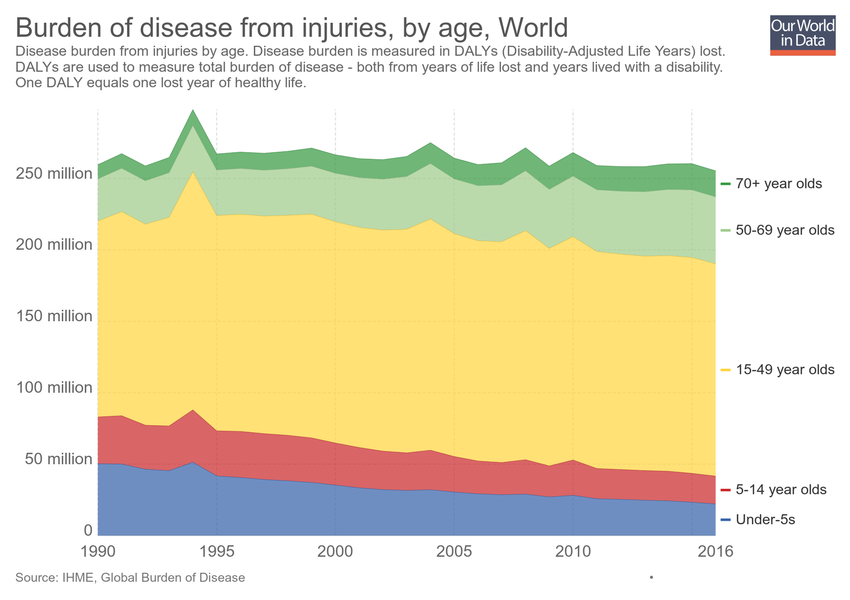
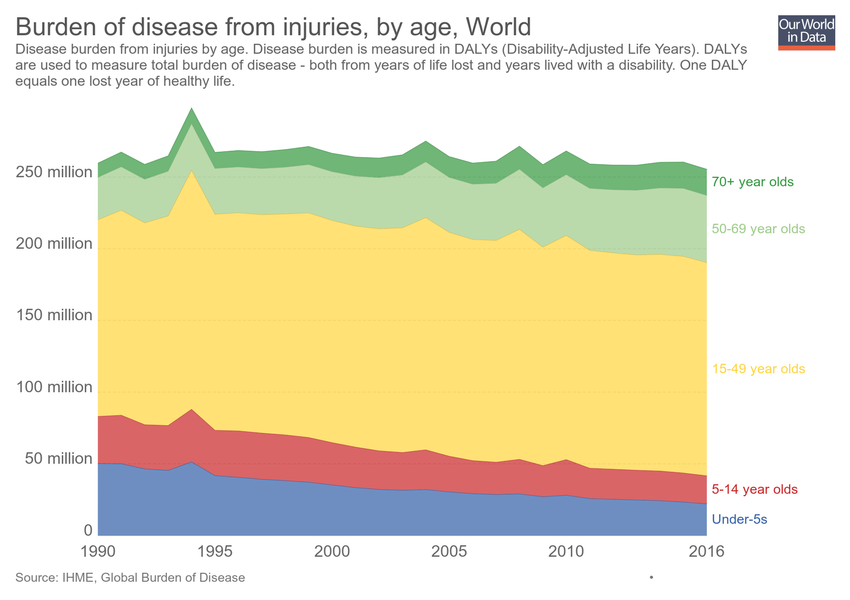
Updating chart burden-of-disease-from-injuries-by-age

diff --git a/grapher/hiv-expenditure.html b/grapher/hiv-expenditure.html
@@ -1,4 +1,4 @@
-<!doctype html><html><head><meta name="viewport" content="width=device-width, initial-scale=1" /><title>HIV expenditure on prevention and treatment - Our World in Data</title><meta name="description" content="Total expenditure on HIV/AIDS prevention and treatment, measured in US$." /><link rel="canonical" href="https://ourworldindata.org/grapher/hiv-expenditure" /><meta property="fb:app_id" content="1149943818390250" /><meta property="og:url" content="https://ourworldindata.org/grapher/hiv-expenditure" /><meta property="og:title" content="HIV expenditure on prevention and treatment" /><meta property="og:description" content="Total expenditure on HIV/AIDS prevention and treatment, measured in US$." /><meta property="og:image" content="https://ourworldindata.org/grapher/exports/hiv-expenditure.png?v=1" /><meta property="og:image:width" content="850" /><meta property="og:image:height" content="600" /><meta property="og:site_name" content="Our World in Data" /><meta name="twitter:card" content="summary_large_image" /><meta name="twitter:site" content="@OurWorldInData" /><meta name="twitter:creator" content="@OurWorldInData" /><meta name="twitter:title" content="HIV expenditure on prevention and treatment" /><meta name="twitter:description" content="Total expenditure on HIV/AIDS prevention and treatment, measured in US$." /><meta name="twitter:image" content="https://ourworldindata.org/grapher/exports/hiv-expenditure.png?v=1" /><style>
+<!doctype html><html><head><meta name="viewport" content="width=device-width, initial-scale=1" /><title>HIV expenditure - Our World in Data</title><meta name="description" content="Country-reported HIV expenditure, measured in current US$ per year. The year of reported expenditure varies by country; this information can be found by hovering over a given country." /><link rel="canonical" href="https://ourworldindata.org/grapher/hiv-expenditure" /><meta property="fb:app_id" content="1149943818390250" /><meta property="og:url" content="https://ourworldindata.org/grapher/hiv-expenditure" /><meta property="og:title" content="HIV expenditure" /><meta property="og:description" content="Country-reported HIV expenditure, measured in current US$ per year. The year of reported expenditure varies by country; this information can be found by hovering over a given country." /><meta property="og:image" content="https://ourworldindata.org/grapher/exports/hiv-expenditure.png?v=1" /><meta property="og:image:width" content="850" /><meta property="og:image:height" content="600" /><meta property="og:site_name" content="Our World in Data" /><meta name="twitter:card" content="summary_large_image" /><meta name="twitter:site" content="@OurWorldInData" /><meta name="twitter:creator" content="@OurWorldInData" /><meta name="twitter:title" content="HIV expenditure" /><meta name="twitter:description" content="Country-reported HIV expenditure, measured in current US$ per year. The year of reported expenditure varies by country; this information can be found by hovering over a given country." /><meta name="twitter:image" content="https://ourworldindata.org/grapher/exports/hiv-expenditure.png?v=1" /><style>
         html, body {
             height: 100%;
             margin: 0;
@@ -20,19 +20,8 @@
         }
     </style><noscript><style>
                     figure { display: none !important; }
-                </style></noscript><link rel="stylesheet" href="https://ourworldindata.org/grapher/assets/commons.bundle.a7ce280024c736539280.css" /><link rel="preload" href="/grapher/data/variables/96328.json?v=1" as="fetch" crossorigin /></head><body class="singleChart"><figure data-grapher-src="/grapher/hiv-expenditure"></figure><noscript id="fallback"><img src="/grapher/exports/hiv-expenditure.svg" /><p>Interactive visualization requires JavaScript</p></noscript><script src="https://cdn.polyfill.io/v2/polyfill.min.js?features=es6,fetch"></script><script src="https://ourworldindata.org/grapher/assets/commons.bundle.a7ce280024c736539280.js"></script><script src="https://ourworldindata.org/grapher/assets/charts.bundle.dcf65b68eddaba4c6a58.js"></script><script>
-        var jsonConfig = {"map":{"projection":"World","targetYear":2015,"variableId":96328,"timeTolerance":3,"baseColorScheme":"YlGnBu","isManualBuckets":true,"colorSchemeLabels":[],"colorSchemeValues":[50000000,100000000,150000000,200000000,250000000,300000000,350000000,400000000],"defaultProjection":"World","colorSchemeMinValue":0,"customNumericColors":[null,null],"customCategoryColors":{},"customCategoryLabels":{},"customHiddenCategories":{}},"tab":"map","slug":"hiv-expenditure","type":"LineChart","title":"HIV expenditure on prevention and treatment","xAxis":{"scaleType":"linear"},"yAxis":{"min":0,"scaleType":"linear"},"version":1,"subtitle":"Total expenditure on HIV/AIDS prevention and treatment, measured in US$.","hasMapTab":true,"stackMode":"absolute","dimensions":[{"display":{"shortUnit":"$"},"property":"y","variableId":96328}],"hasChartTab":true,"isPublished":true,"selectedData":[{"index":0,"entityId":123},{"index":0,"entityId":237},{"index":0,"entityId":95}],"addCountryMode":"add-country","id":2488};
-        var figure = document.getElementsByTagName("figure")[0];
-        try {
-            window.App = {};
-            window.Global = { rootUrl: 'https://ourworldindata.org/grapher' };
-            ChartView.bootstrap({ jsonConfig: jsonConfig, containerNode: figure })
-        } catch (err) {
-            figure.innerHTML = "<img src=\"/grapher/exports/hiv-expenditure.svg\"/><p>Unable to load interactive visualization</p>";
-            figure.setAttribute("id", "fallback");
-            throw err;
-        }
-    </script></body></html>d":219},{"index":0,"entityId":23},{"index":0,"entityId":25},{"index":0,"entityId":26},{"index":0,"entityId":28},{"index":0,"entityId":29},{"index":0,"entityId":30},{"index":0,"entityId":4},{"index":0,"entityId":31},{"index":0,"entityId":32},{"index":0,"entityId":34},{"index":0,"entityId":35},{"index":0,"entityId":36},{"index":0,"entityId":37},{"index":0,"entityId":39},{"index":0,"entityId":40},{"index":0,"entityId":41},{"index":0,"entityId":18581},{"index":0,"entityId":42},{"index":0,"entityId":43},{"index":0,"entityId":174},{"index":0,"entityId":173},{"index":0,"entityId":172},{"index":0,"entityId":171},{"index":0,"entityId":170},{"index":0,"entityId":169},{"index":0,"entityId":168},{"index":0,"entityId":166},{"index":0,"entityId":143}],"addCountryMode":"add-country","hideTitleAnnotation":true,"id":2293};
+                </style></noscript><link rel="stylesheet" href="https://ourworldindata.org/grapher/assets/commons.bundle.a7ce280024c736539280.css" /><link rel="preload" href="/grapher/data/variables/85855.json?v=1" as="fetch" crossorigin /></head><body class="singleChart"><figure data-grapher-src="/grapher/hiv-expenditure"></figure><noscript id="fallback"><img src="/grapher/exports/hiv-expenditure.svg" /><p>Interactive visualization requires JavaScript</p></noscript><script src="https://cdn.polyfill.io/v2/polyfill.min.js?features=es6,fetch"></script><script src="https://ourworldindata.org/grapher/assets/commons.bundle.a7ce280024c736539280.js"></script><script src="https://ourworldindata.org/grapher/assets/charts.bundle.dcf65b68eddaba4c6a58.js"></script><script>
+        var jsonConfig = {"map":{"projection":"World","targetYear":2016,"variableId":85855,"equalSizeBins":true,"timeTolerance":5,"baseColorScheme":"Purples","isManualBuckets":true,"colorSchemeLabels":[],"colorSchemeValues":[50000000,100000000,200000000,300000000,400000000,500000000,750000000,1000000000],"defaultProjection":"World","colorSchemeMinValue":0,"customNumericColors":[null,null],"customCategoryColors":{},"customCategoryLabels":{},"customHiddenCategories":{}},"tab":"map","slug":"hiv-expenditure","type":"LineChart","title":"HIV expenditure","xAxis":{"scaleType":"linear"},"yAxis":{"min":0,"scaleType":"linear"},"version":1,"subtitle":"Country-reported HIV expenditure, measured in current US$ per year. The year of reported expenditure varies by country; this information can be found by hovering over a given country.","hasMapTab":true,"stackMode":"absolute","dimensions":[{"display":{},"property":"y","variableId":85855}],"isAutoSlug":true,"sourceDesc":"UNAIDS","hasChartTab":false,"isPublished":true,"selectedData":[{"index":0,"entityId":84},{"index":0,"entityId":233},{"index":0,"entityId":229},{"index":0,"entityId":15},{"index":0,"entityId":16},{"index":0,"entityId":17},{"index":0,"entityId":19},{"index":0,"entityId":20},{"index":0,"entityId":21},{"index":0,"entityId":22},{"index":0,"entityId":219},{"index":0,"entityId":23},{"index":0,"entityId":25},{"index":0,"entityId":26},{"index":0,"entityId":28},{"index":0,"entityId":29},{"index":0,"entityId":30},{"index":0,"entityId":4},{"index":0,"entityId":31},{"index":0,"entityId":32},{"index":0,"entityId":34},{"index":0,"entityId":35},{"index":0,"entityId":36},{"index":0,"entityId":37},{"index":0,"entityId":39},{"index":0,"entityId":40},{"index":0,"entityId":41},{"index":0,"entityId":18581},{"index":0,"entityId":42},{"index":0,"entityId":43},{"index":0,"entityId":174},{"index":0,"entityId":173},{"index":0,"entityId":172},{"index":0,"entityId":171},{"index":0,"entityId":170},{"index":0,"entityId":169},{"index":0,"entityId":168},{"index":0,"entityId":166},{"index":0,"entityId":143}],"addCountryMode":"add-country","hideTitleAnnotation":true,"id":2293};
         var figure = document.getElementsByTagName("figure")[0];
         try {
             window.App = {};

diff --git a/grapher/burden-of-disease-from-injuries-by-age.html b/grapher/burden-of-disease-from-injuries-by-age.html
@@ -1,4 +1,4 @@
-<!doctype html><html><head><meta name="viewport" content="width=device-width, initial-scale=1" /><title>Burden of disease from injuries, by age - Our World in Data</title><meta name="description" content="Disease burden from injuries by age. Disease burden is measured in DALYs (Disability-Adjusted Life Years) lost. DALYs are used to measure total burden of disease - both from years of life lost and years lived with a disability. One DALY equals one lost year of healthy life." /><link rel="canonical" href="https://ourworldindata.org/grapher/burden-of-disease-from-injuries-by-age" /><meta property="fb:app_id" content="1149943818390250" /><meta property="og:url" content="https://ourworldindata.org/grapher/burden-of-disease-from-injuries-by-age" /><meta property="og:title" content="Burden of disease from injuries, by age" /><meta property="og:description" content="Disease burden from injuries by age. Disease burden is measured in DALYs (Disability-Adjusted Life Years) lost. DALYs are used to measure total burden of disease - both from years of life lost and years lived with a disability. One DALY equals one lost year of healthy life." /><meta property="og:image" content="https://ourworldindata.org/grapher/exports/burden-of-disease-from-injuries-by-age.png?v=1" /><meta property="og:image:width" content="850" /><meta property="og:image:height" content="600" /><meta property="og:site_name" content="Our World in Data" /><meta name="twitter:card" content="summary_large_image" /><meta name="twitter:site" content="@OurWorldInData" /><meta name="twitter:creator" content="@OurWorldInData" /><meta name="twitter:title" content="Burden of disease from injuries, by age" /><meta name="twitter:description" content="Disease burden from injuries by age. Disease burden is measured in DALYs (Disability-Adjusted Life Years) lost. DALYs are used to measure total burden of disease - both from years of life lost and years lived with a disability. One DALY equals one lost year of healthy life." /><meta name="twitter:image" content="https://ourworldindata.org/grapher/exports/burden-of-disease-from-injuries-by-age.png?v=1" /><style>
+<!doctype html><html><head><meta name="viewport" content="width=device-width, initial-scale=1" /><title>Burden of disease from injuries, by age - Our World in Data</title><meta name="description" content="Disease burden from injuries by age. Disease burden is measured in DALYs (Disability-Adjusted Life Years). DALYs are used to measure total burden of disease - both from years of life lost and years lived with a disability. One DALY equals one lost year of healthy life." /><link rel="canonical" href="https://ourworldindata.org/grapher/burden-of-disease-from-injuries-by-age" /><meta property="fb:app_id" content="1149943818390250" /><meta property="og:url" content="https://ourworldindata.org/grapher/burden-of-disease-from-injuries-by-age" /><meta property="og:title" content="Burden of disease from injuries, by age" /><meta property="og:description" content="Disease burden from injuries by age. Disease burden is measured in DALYs (Disability-Adjusted Life Years). DALYs are used to measure total burden of disease - both from years of life lost and years lived with a disability. One DALY equals one lost year of healthy life." /><meta property="og:image" content="https://ourworldindata.org/grapher/exports/burden-of-disease-from-injuries-by-age.png?v=2" /><meta property="og:image:width" content="850" /><meta property="og:image:height" content="600" /><meta property="og:site_name" content="Our World in Data" /><meta name="twitter:card" content="summary_large_image" /><meta name="twitter:site" content="@OurWorldInData" /><meta name="twitter:creator" content="@OurWorldInData" /><meta name="twitter:title" content="Burden of disease from injuries, by age" /><meta name="twitter:description" content="Disease burden from injuries by age. Disease burden is measured in DALYs (Disability-Adjusted Life Years). DALYs are used to measure total burden of disease - both from years of life lost and years lived with a disability. One DALY equals one lost year of healthy life." /><meta name="twitter:image" content="https://ourworldindata.org/grapher/exports/burden-of-disease-from-injuries-by-age.png?v=2" /><style>
         html, body {
             height: 100%;
             margin: 0;
@@ -20,8 +20,8 @@
         }
     </style><noscript><style>
                     figure { display: none !important; }
-                </style></noscript><link rel="stylesheet" href="https://ourworldindata.org/grapher/assets/commons.bundle.a7ce280024c736539280.css" /><link rel="preload" href="/grapher/data/variables/59489+59493+59483+59487+59491.json?v=1" as="fetch" crossorigin /></head><body class="singleChart"><figure data-grapher-src="/grapher/burden-of-disease-from-injuries-by-age"></figure><noscript id="fallback"><img src="/grapher/exports/burden-of-disease-from-injuries-by-age.svg" /><p>Interactive visualization requires JavaScript</p></noscript><script src="https://cdn.polyfill.io/v2/polyfill.min.js?features=es6,fetch"></script><script src="https://ourworldindata.org/grapher/assets/commons.bundle.a7ce280024c736539280.js"></script><script src="https://ourworldindata.org/grapher/assets/charts.bundle.dcf65b68eddaba4c6a58.js"></script><script>
-        var jsonConfig = {"map":{"projection":"World","colorSchemeLabels":[],"colorSchemeValues":[],"defaultProjection":"World","colorSchemeMinValue":0,"customNumericColors":[],"customCategoryColors":{},"customCategoryLabels":{},"customHiddenCategories":{}},"tab":"chart","slug":"burden-of-disease-from-injuries-by-age","type":"StackedArea","title":"Burden of disease from injuries, by age","xAxis":{"scaleType":"linear"},"yAxis":{"min":0,"scaleType":"linear"},"version":1,"subtitle":"Disease burden from injuries by age. Disease burden is measured in DALYs (Disability-Adjusted Life Years) lost. DALYs are used to measure total burden of disease - both from years of life lost and years lived with a disability. One DALY equals one lost year of healthy life.","hasMapTab":false,"stackMode":"absolute","dimensions":[{"display":{"name":"15-49 year olds","unit":"DALYs lost"},"property":"y","variableId":59489,"numDecimalPlaces":0},{"display":{"name":"70+ year olds","unit":"DALYs lost"},"property":"y","variableId":59493,"numDecimalPlaces":0},{"display":{"name":"Under-5s","unit":"DALYs lost"},"property":"y","variableId":59483,"numDecimalPlaces":0},{"display":{"name":"5-14 year olds","unit":"DALYs lost"},"property":"y","variableId":59487,"numDecimalPlaces":0},{"display":{"name":"50-69 year olds","unit":"DALYs lost"},"property":"y","variableId":59491,"numDecimalPlaces":0}],"isAutoSlug":true,"sourceDesc":"IHME, Global Burden of Disease","hasChartTab":true,"isPublished":true,"selectedData":[{"index":1,"entityId":355},{"index":4,"entityId":355},{"index":0,"entityId":355},{"index":3,"entityId":355},{"index":2,"entityId":355}],"addCountryMode":"change-country","id":2216};
+                </style></noscript><link rel="stylesheet" href="https://ourworldindata.org/grapher/assets/commons.bundle.a7ce280024c736539280.css" /><link rel="preload" href="/grapher/data/variables/59489+59493+59483+59487+59491.json?v=2" as="fetch" crossorigin /></head><body class="singleChart"><figure data-grapher-src="/grapher/burden-of-disease-from-injuries-by-age"></figure><noscript id="fallback"><img src="/grapher/exports/burden-of-disease-from-injuries-by-age.svg" /><p>Interactive visualization requires JavaScript</p></noscript><script src="https://cdn.polyfill.io/v2/polyfill.min.js?features=es6,fetch"></script><script src="https://ourworldindata.org/grapher/assets/commons.bundle.a7ce280024c736539280.js"></script><script src="https://ourworldindata.org/grapher/assets/charts.bundle.dcf65b68eddaba4c6a58.js"></script><script>
+        var jsonConfig = {"id":2216,"map":{"projection":"World","colorSchemeLabels":[],"colorSchemeValues":[],"colorSchemeMinValue":0,"customNumericColors":[],"customCategoryColors":{},"customCategoryLabels":{},"customHiddenCategories":{}},"tab":"chart","slug":"burden-of-disease-from-injuries-by-age","type":"StackedArea","title":"Burden of disease from injuries, by age","xAxis":{"scaleType":"linear"},"yAxis":{"min":0,"scaleType":"linear"},"version":2,"subtitle":"Disease burden from injuries by age. Disease burden is measured in DALYs (Disability-Adjusted Life Years). DALYs are used to measure total burden of disease - both from years of life lost and years lived with a disability. One DALY equals one lost year of healthy life.","hasMapTab":false,"stackMode":"absolute","dimensions":[{"display":{"name":"15-49 year olds","unit":"DALYs lost"},"property":"y","variableId":59489},{"display":{"name":"70+ year olds","unit":"DALYs lost"},"property":"y","variableId":59493},{"display":{"name":"Under-5s","unit":"DALYs lost"},"property":"y","variableId":59483},{"display":{"name":"5-14 year olds","unit":"DALYs lost"},"property":"y","variableId":59487},{"display":{"name":"50-69 year olds","unit":"DALYs lost"},"property":"y","variableId":59491}],"sourceDesc":"IHME, Global Burden of Disease","hasChartTab":true,"isPublished":true,"selectedData":[{"index":1,"entityId":355},{"index":4,"entityId":355},{"index":0,"entityId":355},{"index":3,"entityId":355},{"index":2,"entityId":355}],"addCountryMode":"change-country"};
         var figure = document.getElementsByTagName("figure")[0];
         try {
             window.App = {};

diff --git a/grapher/disease-burden-by-region.html b/grapher/disease-burden-by-region.html
@@ -1,4 +1,4 @@
-<!doctype html><html><head><meta name="viewport" content="width=device-width, initial-scale=1" /><title>Global disease burden by region - Our World in Data</title><meta name="description" content="Total disease burden from all causes, disaggregated by region. Total disease burden measured as the number of DALYs (Disability-Adjusted Life Years) lost per year. DALYs are used to measure total burden of disease - both from years of life lost and years lived with a disability. One DALY equals one lost year of healthy life." /><link rel="canonical" href="https://ourworldindata.org/grapher/disease-burden-by-region" /><meta property="fb:app_id" content="1149943818390250" /><meta property="og:url" content="https://ourworldindata.org/grapher/disease-burden-by-region" /><meta property="og:title" content="Global disease burden by region" /><meta property="og:description" content="Total disease burden from all causes, disaggregated by region. Total disease burden measured as the number of DALYs (Disability-Adjusted Life Years) lost per year. DALYs are used to measure total burden of disease - both from years of life lost and years lived with a disability. One DALY equals one lost year of healthy life." /><meta property="og:image" content="https://ourworldindata.org/grapher/exports/disease-burden-by-region.png?v=2" /><meta property="og:image:width" content="850" /><meta property="og:image:height" content="600" /><meta property="og:site_name" content="Our World in Data" /><meta name="twitter:card" content="summary_large_image" /><meta name="twitter:site" content="@OurWorldInData" /><meta name="twitter:creator" content="@OurWorldInData" /><meta name="twitter:title" content="Global disease burden by region" /><meta name="twitter:description" content="Total disease burden from all causes, disaggregated by region. Total disease burden measured as the number of DALYs (Disability-Adjusted Life Years) lost per year. DALYs are used to measure total burden of disease - both from years of life lost and years lived with a disability. One DALY equals one lost year of healthy life." /><meta name="twitter:image" content="https://ourworldindata.org/grapher/exports/disease-burden-by-region.png?v=2" /><style>
+<!doctype html><html><head><meta name="viewport" content="width=device-width, initial-scale=1" /><title>Global disease burden by region - Our World in Data</title><meta name="description" content="Total disease burden from all causes, disaggregated by region. Total disease burden measured as the number of DALYs (Disability-Adjusted Life Years) per year. DALYs are used to measure total burden of disease - both from years of life lost and years lived with a disability. One DALY equals one lost year of healthy life." /><link rel="canonical" href="https://ourworldindata.org/grapher/disease-burden-by-region" /><meta property="fb:app_id" content="1149943818390250" /><meta property="og:url" content="https://ourworldindata.org/grapher/disease-burden-by-region" /><meta property="og:title" content="Global disease burden by region" /><meta property="og:description" content="Total disease burden from all causes, disaggregated by region. Total disease burden measured as the number of DALYs (Disability-Adjusted Life Years) per year. DALYs are used to measure total burden of disease - both from years of life lost and years lived with a disability. One DALY equals one lost year of healthy life." /><meta property="og:image" content="https://ourworldindata.org/grapher/exports/disease-burden-by-region.png?v=3" /><meta property="og:image:width" content="850" /><meta property="og:image:height" content="600" /><meta property="og:site_name" content="Our World in Data" /><meta name="twitter:card" content="summary_large_image" /><meta name="twitter:site" content="@OurWorldInData" /><meta name="twitter:creator" content="@OurWorldInData" /><meta name="twitter:title" content="Global disease burden by region" /><meta name="twitter:description" content="Total disease burden from all causes, disaggregated by region. Total disease burden measured as the number of DALYs (Disability-Adjusted Life Years) per year. DALYs are used to measure total burden of disease - both from years of life lost and years lived with a disability. One DALY equals one lost year of healthy life." /><meta name="twitter:image" content="https://ourworldindata.org/grapher/exports/disease-burden-by-region.png?v=3" /><style>
         html, body {
             height: 100%;
             margin: 0;
@@ -20,8 +20,8 @@
         }
     </style><noscript><style>
                     figure { display: none !important; }
-                </style></noscript><link rel="stylesheet" href="https://ourworldindata.org/grapher/assets/commons.bundle.a7ce280024c736539280.css" /><link rel="preload" href="/grapher/data/variables/56593.json?v=2" as="fetch" crossorigin /></head><body class="singleChart"><figure data-grapher-src="/grapher/disease-burden-by-region"></figure><noscript id="fallback"><img src="/grapher/exports/disease-burden-by-region.svg" /><p>Interactive visualization requires JavaScript</p></noscript><script src="https://cdn.polyfill.io/v2/polyfill.min.js?features=es6,fetch"></script><script src="https://ourworldindata.org/grapher/assets/commons.bundle.a7ce280024c736539280.js"></script><script src="https://ourworldindata.org/grapher/assets/charts.bundle.dcf65b68eddaba4c6a58.js"></script><script>
-        var jsonConfig = {"id":2208,"map":{"projection":"World","colorSchemeLabels":[],"colorSchemeValues":[],"defaultProjection":"World","colorSchemeMinValue":0,"customNumericColors":[],"customCategoryColors":{},"customCategoryLabels":{},"customHiddenCategories":{}},"tab":"chart","slug":"disease-burden-by-region","type":"StackedArea","title":"Global disease burden by region","xAxis":{"scaleType":"linear"},"yAxis":{"min":0,"scaleType":"linear"},"version":2,"subtitle":"Total disease burden from all causes, disaggregated by region. Total disease burden measured as the number of DALYs (Disability-Adjusted Life Years) lost per year. DALYs are used to measure total burden of disease - both from years of life lost and years lived with a disability. One DALY equals one lost year of healthy life.","hasMapTab":false,"stackMode":"absolute","dimensions":[{"display":{"unit":"DALYs lost"},"property":"y","variableId":56593,"numDecimalPlaces":0}],"sourceDesc":"IHME, Global Burden of Disease","hasChartTab":true,"isPublished":true,"selectedData":[{"index":0,"entityId":277},{"index":0,"entityId":469},{"index":0,"entityId":34616},{"index":0,"entityId":473},{"index":0,"entityId":294},{"index":0,"entityId":476},{"index":0,"entityId":34620},{"index":0,"entityId":34625},{"index":0,"entityId":34614},{"index":0,"entityId":34613},{"index":0,"entityId":289},{"index":0,"entityId":302}],"addCountryMode":"disabled","baseColorScheme":"stackedAreaDefault"};
+                </style></noscript><link rel="stylesheet" href="https://ourworldindata.org/grapher/assets/commons.bundle.a7ce280024c736539280.css" /><link rel="preload" href="/grapher/data/variables/56593.json?v=3" as="fetch" crossorigin /></head><body class="singleChart"><figure data-grapher-src="/grapher/disease-burden-by-region"></figure><noscript id="fallback"><img src="/grapher/exports/disease-burden-by-region.svg" /><p>Interactive visualization requires JavaScript</p></noscript><script src="https://cdn.polyfill.io/v2/polyfill.min.js?features=es6,fetch"></script><script src="https://ourworldindata.org/grapher/assets/commons.bundle.a7ce280024c736539280.js"></script><script src="https://ourworldindata.org/grapher/assets/charts.bundle.dcf65b68eddaba4c6a58.js"></script><script>
+        var jsonConfig = {"id":2208,"map":{"projection":"World","colorSchemeLabels":[],"colorSchemeValues":[],"colorSchemeMinValue":0,"customNumericColors":[],"customCategoryColors":{},"customCategoryLabels":{},"customHiddenCategories":{}},"tab":"chart","slug":"disease-burden-by-region","type":"StackedArea","title":"Global disease burden by region","xAxis":{"scaleType":"linear"},"yAxis":{"min":0,"scaleType":"linear"},"version":3,"subtitle":"Total disease burden from all causes, disaggregated by region. Total disease burden measured as the number of DALYs (Disability-Adjusted Life Years) per year. DALYs are used to measure total burden of disease - both from years of life lost and years lived with a disability. One DALY equals one lost year of healthy life.","hasMapTab":false,"stackMode":"absolute","dimensions":[{"display":{"unit":"DALYs lost"},"property":"y","variableId":56593}],"sourceDesc":"IHME, Global Burden of Disease","hasChartTab":true,"isPublished":true,"selectedData":[{"index":0,"entityId":277},{"index":0,"entityId":469},{"index":0,"entityId":34616},{"index":0,"entityId":473},{"index":0,"entityId":294},{"index":0,"entityId":476},{"index":0,"entityId":34620},{"index":0,"entityId":34625},{"index":0,"entityId":34614},{"index":0,"entityId":34613},{"index":0,"entityId":289},{"index":0,"entityId":302}],"addCountryMode":"disabled","baseColorScheme":"stackedAreaDefault"};
         var figure = document.getElementsByTagName("figure")[0];
         try {
             window.App = {};
